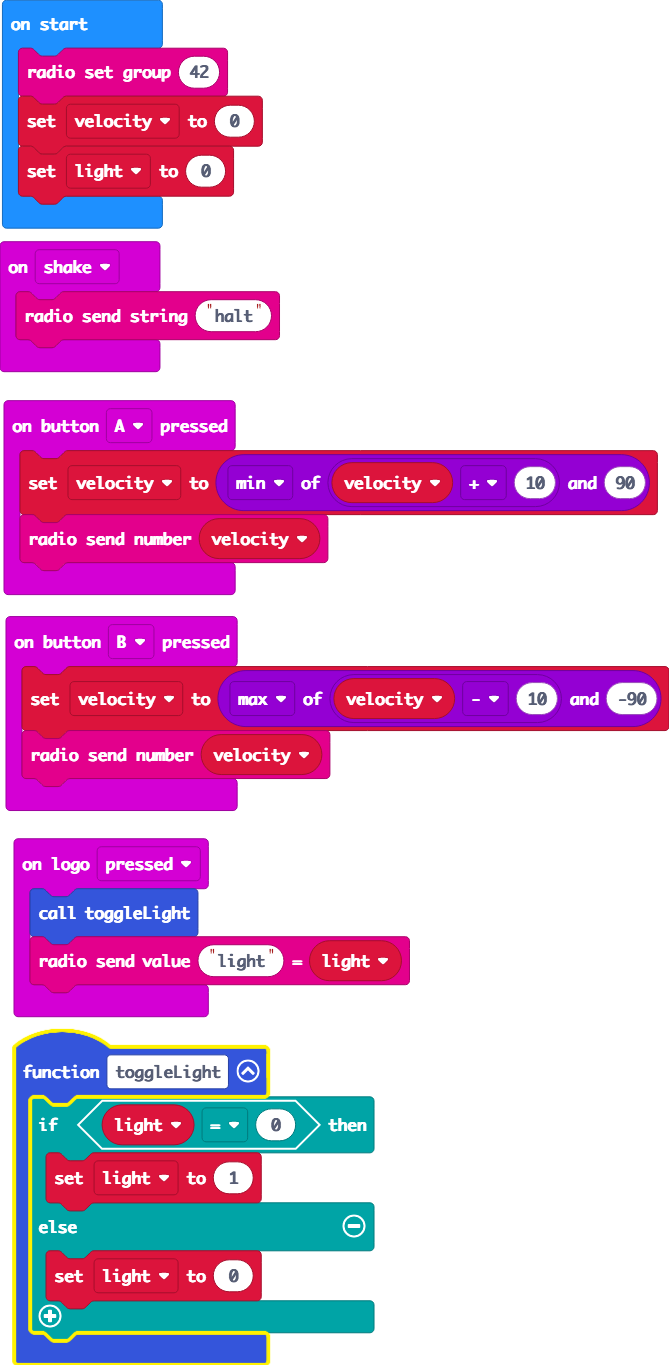
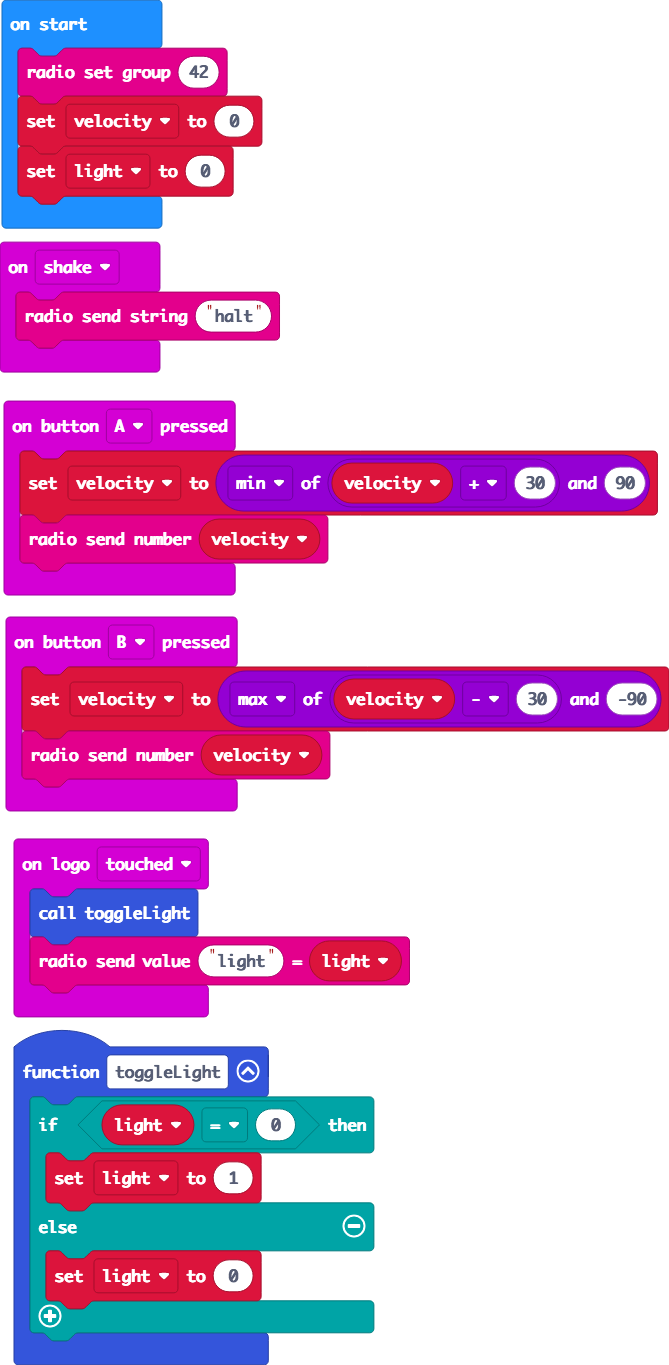
adjust velocity step

diff --git a/main.ts b/main.ts
@@ -6,17 +6,17 @@ function toggleLight () {
     }
 }
 input.onButtonPressed(Button.A, function () {
-    velocity = Math.min(velocity + 10, 90)
+    velocity = Math.min(velocity + 30, 90)
     radio.sendNumber(velocity)
 })
 input.onButtonPressed(Button.B, function () {
-    velocity = Math.max(velocity - 10, -90)
+    velocity = Math.max(velocity - 30, -90)
     radio.sendNumber(velocity)
 })
 input.onGesture(Gesture.Shake, function () {
     radio.sendString("halt")
 })
-input.onLogoEvent(TouchButtonEvent.Pressed, function () {
+input.onLogoEvent(TouchButtonEvent.Touched, function () {
     toggleLight()
     radio.sendValue("light", light2)
 })
